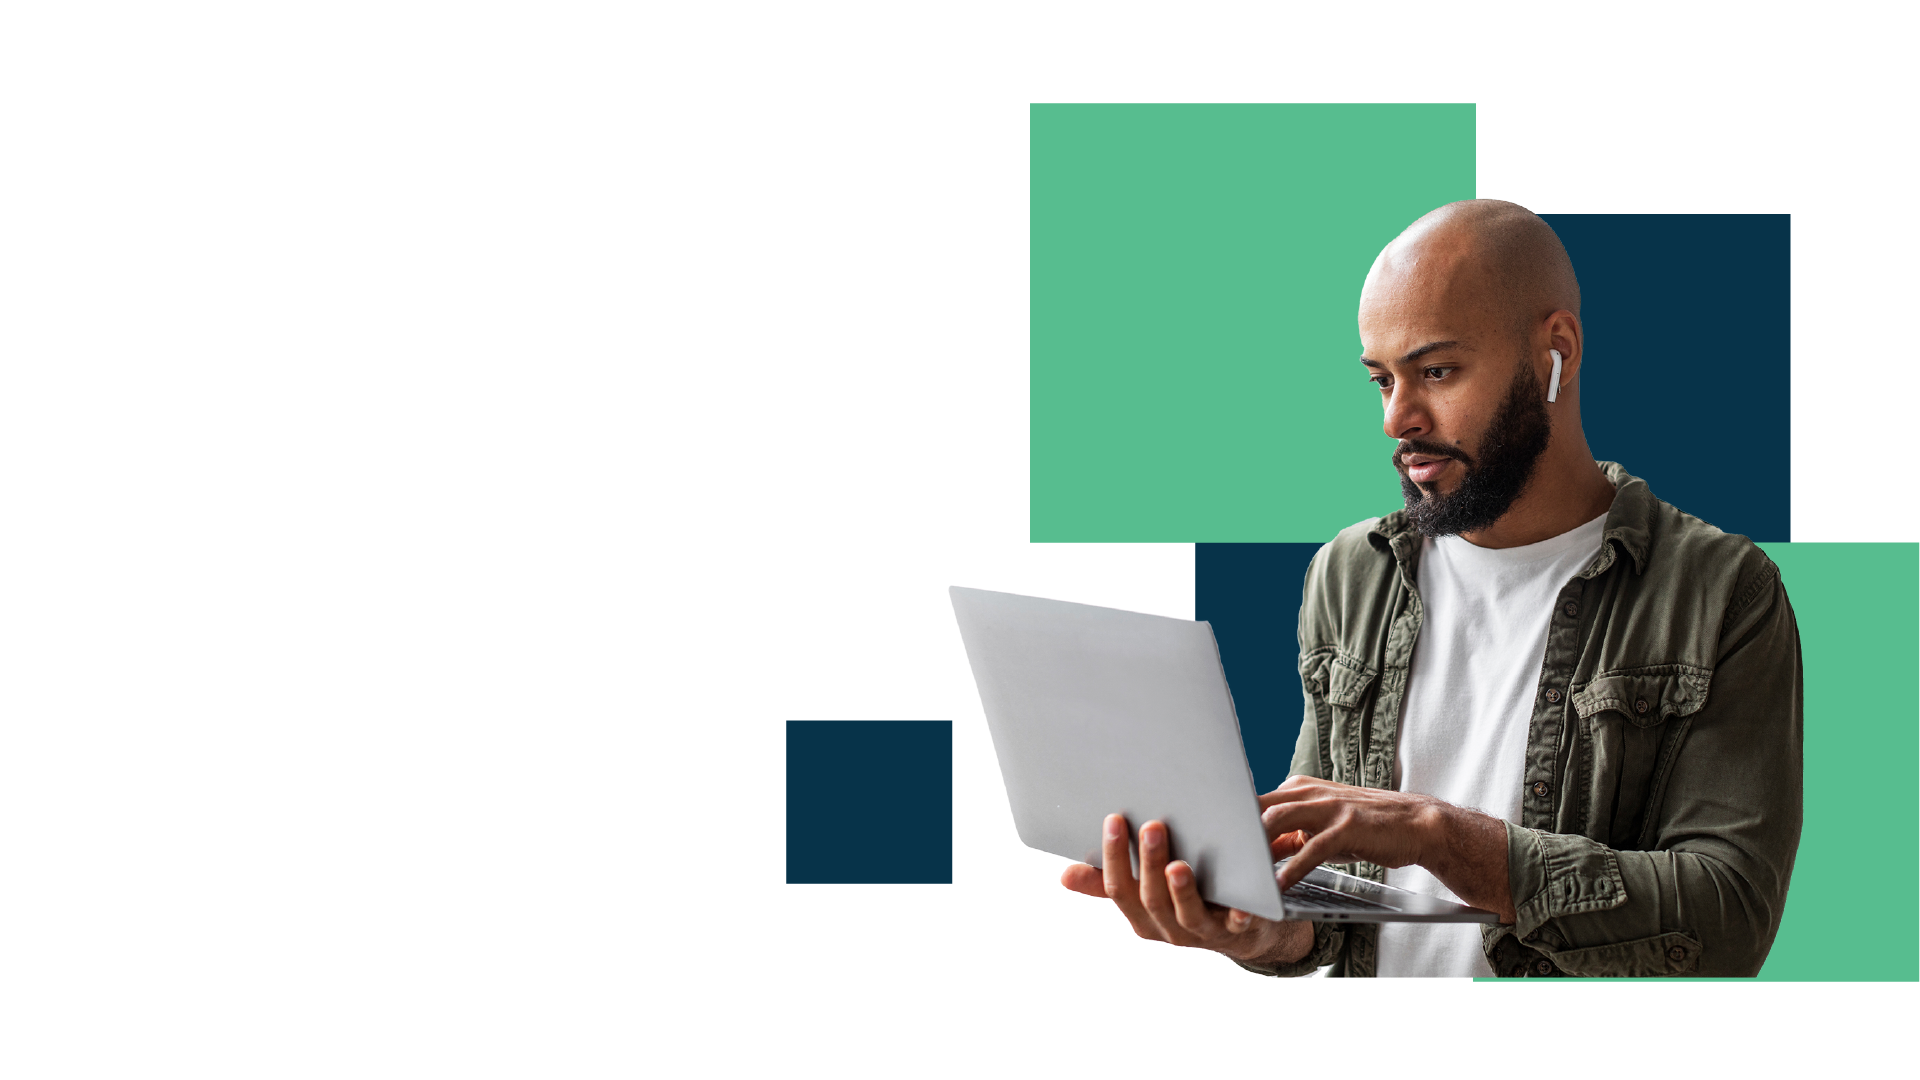
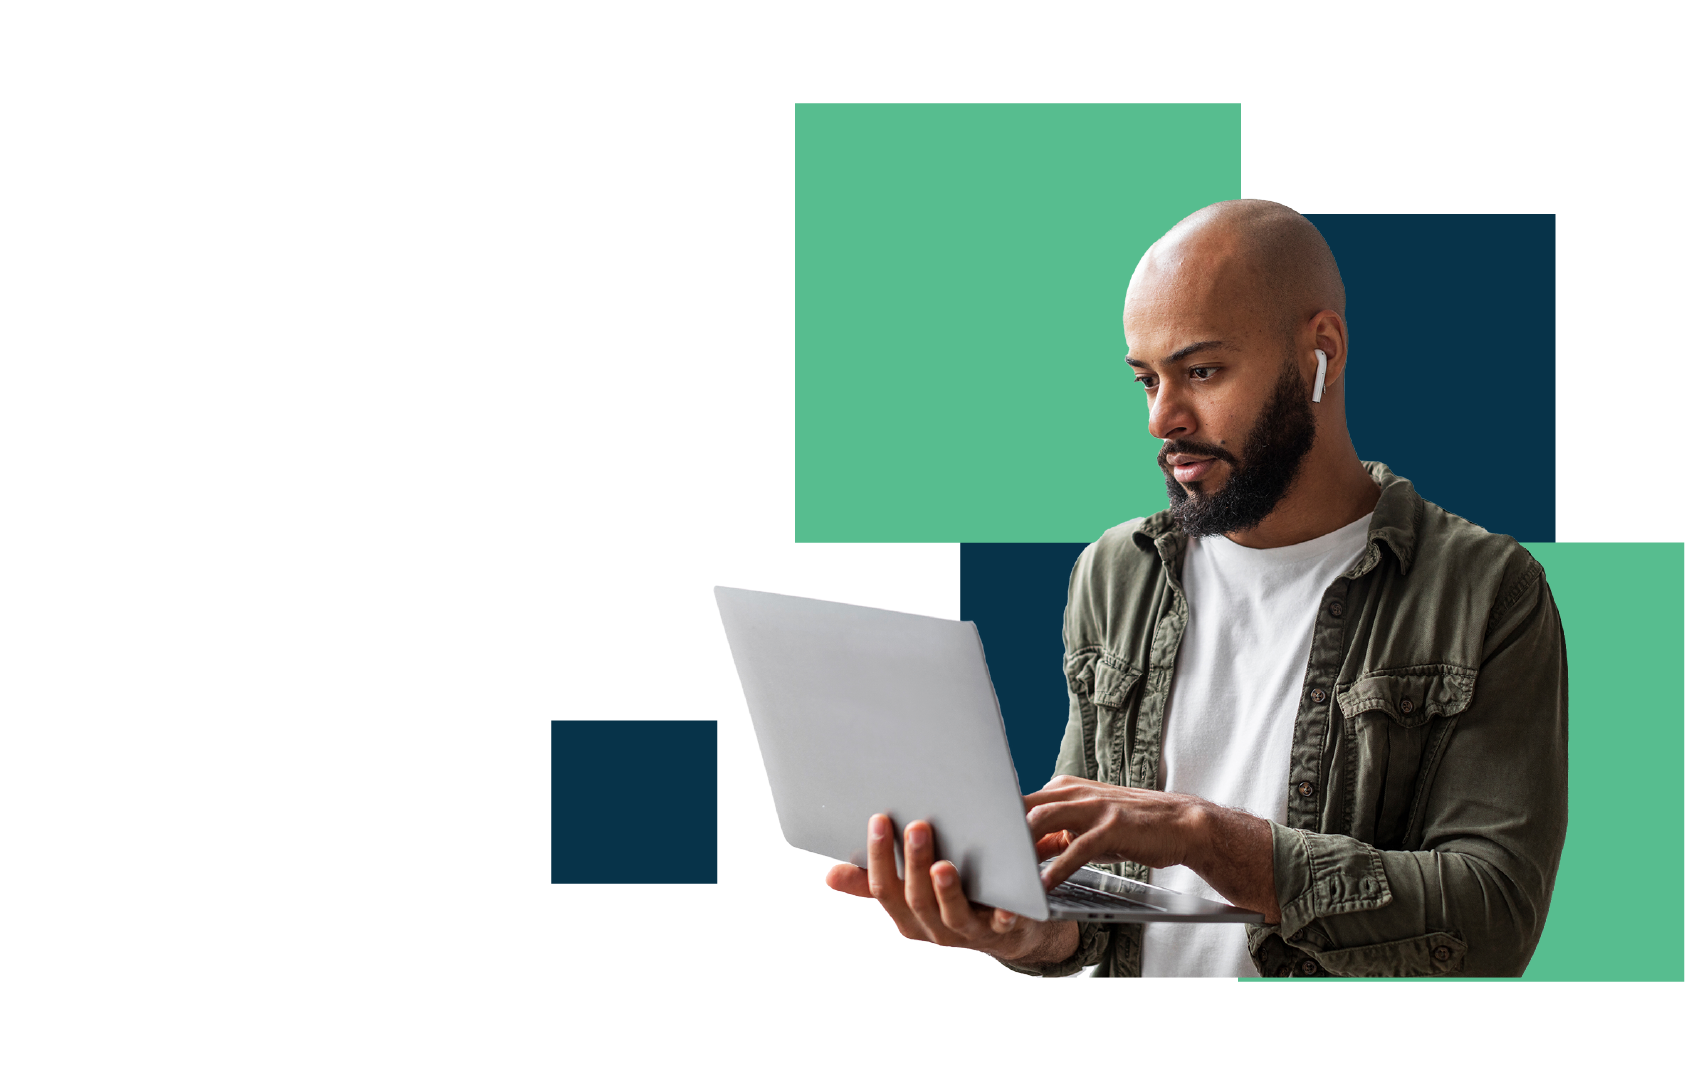
adjust the header image

Changed region(s): [[0.3086, 0.0917, 0.9567, 0.9167]]

diff --git a/about.html b/about.html
@@ -1,0 +1,172 @@
+<!DOCTYPE html>
+<html lang="en">
+
+<head>
+  <meta charset="utf-8">
+  <meta content="width=device-width, initial-scale=1.0" name="viewport">
+  <title>Clyvern-Services</title>
+  <meta name="description" content="">
+  <meta name="keywords" content="">
+
+  <!-- Favicons -->
+  <link href="assets/img/favicon.png" rel="icon">
+  <link href="assets/img/apple-touch-icon.png" rel="apple-touch-icon">
+
+  <link href="https://fonts.googleapis.com" rel="preconnect">
+  <link href="https://fonts.gstatic.com" rel="preconnect" crossorigin>
+  <link href="https://fonts.googleapis.com/css2?family=Roboto:ital,wght@0,100;0,300;0,400;0,500;0,700;0,900;1,100;1,300;1,400;1,500;1,700;1,900&family=Poppins:ital,wght@0,100;0,200;0,300;0,400;0,500;0,600;0,700;0,800;0,900;1,100;1,200;1,300;1,400;1,500;1,600;1,700;1,800;1,900&family=Raleway:ital,wght@0,100;0,200;0,300;0,400;0,500;0,600;0,700;0,800;0,900;1,100;1,200;1,300;1,400;1,500;1,600;1,700;1,800;1,900&display=swap" rel="stylesheet">
+
+  <link href="assets/vendor/bootstrap/css/bootstrap.min.css" rel="stylesheet">
+  <link href="assets/vendor/bootstrap-icons/bootstrap-icons.css" rel="stylesheet">
+  <link href="assets/vendor/aos/aos.css" rel="stylesheet">
+  <link href="assets/vendor/glightbox/css/glightbox.min.css" rel="stylesheet">
+  <link href="assets/vendor/swiper/swiper-bundle.min.css" rel="stylesheet">
+
+  <link rel="stylesheet" href="https://cdn.jsdelivr.net/npm/bootstrap-icons@1.10.5/font/bootstrap-icons.css">
+  <link rel="stylesheet" href="https://cdnjs.cloudflare.com/ajax/libs/font-awesome/6.5.0/css/all.min.css">
+
+<link href="assets/css/main.css" rel="stylesheet">
+ 
+</head>
+
+   <style>
+        body {
+            background-color: #0d1b2a;
+            color: #ffffff;
+            font-family: Arial, sans-serif;
+        }
+        .hero {
+            background-color: #083449;
+            padding: 40px 0;
+        }
+        .hero-text h1 {
+            font-weight: bold;
+            font-size: 100px;
+            opacity: 0.2;
+            margin: 0;
+        }
+        .content {
+            background-color: #083449;
+        }
+        .title-section {
+            background-color: #68c79c;
+            padding: 15px;
+            text-align: left;
+            font-size: 1.5em;
+            font-weight: bold;
+        }
+        .title-section span {
+            font-size: 0.8em;
+            display: block;
+        }
+        .service-section {
+            padding: 20px;
+        }
+        .service-item {
+            padding: 15px;
+        }
+        .service-item h4 {
+            color: white;
+            font-weight: bold;
+            margin-bottom: 10px;
+        }
+        .service-item p {
+            font-size: 0.9em;
+            line-height: 1.5;
+        }
+        .service-img {
+            width: 100%;
+            height: auto;
+        }
+    </style>
+
+<body class="index-page">
+
+  <header id="header" class="header d-flex align-items-center sticky-top" style="background-color: #083449 !important;"> 
+    <div class="container-fluid container-xl position-relative d-flex align-items-center">
+
+      <a href="index.html" class="logo d-flex align-items-center me-auto">
+        <img src="assets/img/Asset 2.png" alt="" class="logo-img">
+      </a>
+
+      <nav id="navmenu" class="navmenu">
+        <ul>
+            <li><a href="index.html" >Home<br></a></li>
+          <li><a href="about.html"  class="active">About US</a></li>
+          <li><a href="services.html" >Services</a></li>
+          <li><a href="clients.html" >Clients</a></li>
+          <li><a href="partners.html">Partners</a></li>
+          <li><a href="contact.html">Contact US</a></li>
+        </ul>
+        <i class="mobile-nav-toggle d-xl-none bi bi-list"></i>
+      </nav>
+
+    </div>
+  </header>
+
+<main class="main">
+  <section id="hero" class="heros section" style="background-color: #083449;">
+    <div class="container">
+      <div class="row">
+        <div class="col-12">
+          <div>
+            <h1 class="text-white fw-bold display-1" style="opacity: 0.2;">About US</h1>
+          </div>
+        </div>
+      </div>
+    </div>
+  </section>
+
+</main>
+
+
+  <footer id="footer" class="footer" style="background-color: #40c4f1">
+
+    <div class="container footer-top">
+      <div class="row gy-4">
+        <div class="col-lg-4 col-md-6 footer-about">
+          <div class="col-md-4 text-center text-md-left mb-3 mb-md-0">
+        <img src="assets/img/Asset 1.png" alt="CLYVERN Logo" class="footer-img">
+       </div>
+        </div>
+
+      <div class="col-lg-4 col-md-12 footer-contact d-flex flex-column align-items-md-end align-items-center text-md-end text-center" style="margin-left: auto;">
+        <div class="d-flex flex-wrap justify-content-md-end justify-content-center align-items-center mb-2" style="gap: 5px;">
+          <a href="#" class="social-icon"><i class="fab fa-linkedin-in"></i></a>
+          <a href="#" class="social-icon"><i class="fab fa-x-twitter"></i></a>
+          <a href="#" class="social-icon"><i class="fab fa-facebook-f"></i></a>
+          <a href="#" class="social-icon"><i class="fab fa-instagram"></i></a>
+        </div>
+        <span class="phone-number">+20 000 000 000</span>
+        <span class="phone-number">+20 000 000 000</span>
+        <p class="mb-1">55 Zohor.st, Dokki, Giza, Egypt</p>
+        <p class="mb-0">Info@Clyvern.net</p>
+      </div>
+
+      </div>
+    </div>
+<br>
+    <div class="container copyright text-center mt-4">
+      <p>© <span>Copyright</span> <strong class="px-1 sitename">CLYVERN</strong> <span>All Rights Reserved</span></p>
+      <div class="credits" >
+      </div>
+    </div>
+
+  </footer>
+
+  <!-- Scroll Top -->
+  <a href="#" id="scroll-top" class="scroll-top d-flex align-items-center justify-content-center" style="color:#083449 !important"><i class="bi bi-arrow-up-short" ></i></a>
+
+  <!-- Vendor JS Files -->
+  <script src="assets/vendor/bootstrap/js/bootstrap.bundle.min.js"></script>
+  <script src="assets/vendor/aos/aos.js"></script>
+  <script src="assets/vendor/glightbox/js/glightbox.min.js"></script>
+  <script src="assets/vendor/swiper/swiper-bundle.min.js"></script>
+  <script src="assets/vendor/purecounter/purecounter_vanilla.js"></script>
+  <script src="assets/vendor/imagesloaded/imagesloaded.pkgd.min.js"></script>
+  <script src="assets/vendor/isotope-layout/isotope.pkgd.min.js"></script>
+
+  <!-- Main JS File -->
+  <script src="assets/js/main.js"></script>
+
+</body>

diff --git a/services.html b/services.html
@@ -32,7 +32,6 @@
    <style>
         body {
             background-color: #0d1b2a;
-            color: #ffffff;
             font-family: Arial, sans-serif;
         }
         .hero {
@@ -83,7 +82,7 @@
 
 <body class="index-page">
 
-  <header id="header" class="header d-flex align-items-center sticky-top" style="background-color: #083449 !important;"> 
+ <header id="header" class="header d-flex align-items-center sticky-top" style="background-color: #083449 !important;"> 
     <div class="container-fluid container-xl position-relative d-flex align-items-center">
 
       <a href="index.html" class="logo d-flex align-items-center me-auto">
@@ -92,8 +91,8 @@
 
       <nav id="navmenu" class="navmenu">
         <ul>
-          <li><a href="index.html">Home<br></a></li>
-          <li><a href="#">About US</a></li>
+          <li><a href="index.html" >Home<br></a></li>
+          <li><a href="about.html">About US</a></li>
           <li><a href="services.html" class="active">Services</a></li>
           <li><a href="#">Clients</a></li>
           <li><a href="#">Partners</a></li>

diff --git a/index.html b/index.html
@@ -47,7 +47,7 @@
       <nav id="navmenu" class="navmenu">
         <ul>
           <li><a href="index.html" class="active">Home<br></a></li>
-          <li><a href="#">About US</a></li>
+          <li><a href="about.html">About US</a></li>
           <li><a href="services.html">Services</a></li>
           <li><a href="#">Clients</a></li>
           <li><a href="#">Partners</a></li>
@@ -78,7 +78,7 @@
         </div>
         <p>Our Services are tailored to fit, <br> Our Plans are built to grow</p>
         <div class="d-flex mt-4" data-aos="fade-up">
-          <a href="#" class="btn-get-started" style="background-color: #083449;  border: none; border-radius: 25px;">Know More</a>
+          <a href="#" class="btn-get-started" style="background-color: #083449;  border: none; border-radius: 400px;">Know More</a>
         </div>
       </div>
       <div class="col-lg-6">

diff --git a/assets/css/main.css b/assets/css/main.css
@@ -858,7 +858,7 @@ section,
   max-width: 100%;
   max-height: 100%;
   */
-  display: none; /* Hide the <img> tag since it's now a background */
+  display: none;
 }
 
 /* Optional: Add media queries for finer control, though background-size: cover is usually sufficient */
@@ -877,7 +877,7 @@ section,
 
 @media (max-width: 768px) {
   .hero img {
-    object-position: top center;
+        transform: translateX(20px);
   }
 }
 
@@ -928,7 +928,9 @@ section,
 /* Media query for mobile devices */
 @media (max-width: 768px) { /* Adjust this breakpoint as needed for your definition of "mobile" */
   .hero .btn-get-started {
-    margin-right: 80%; 
+    padding: 10px 10% 10px 30px; /* Adjust padding for mobile */
+    font-size: 14px;
+    margin: 15% 5% -20% 0; /* Add margin for spacing */
   }
 }
 
